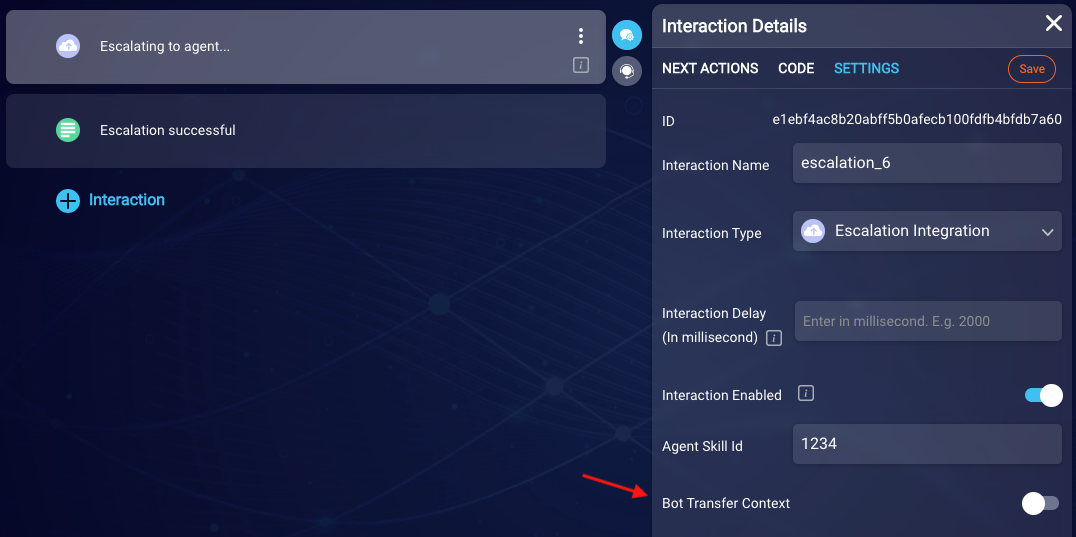
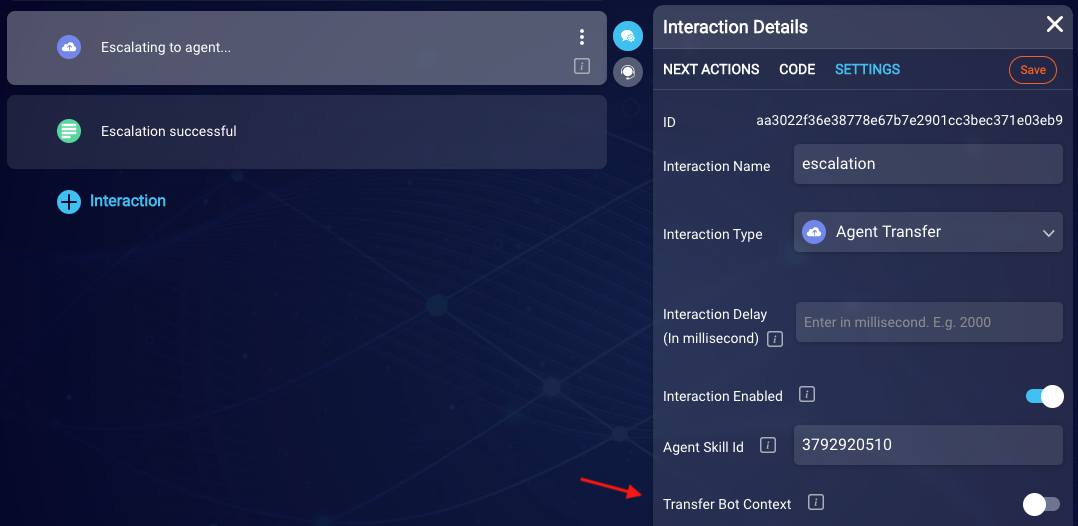
Updates due to label/copy changes

diff --git a/pages/documents/ConversationalAI/ConversationBuilder/Interactions/interactions_integrations.md b/pages/documents/ConversationalAI/ConversationBuilder/Interactions/interactions_integrations.md
@@ -42,23 +42,23 @@ We've likewise added a second condition that checks for a "failure" result **(1)
 
  <img style="width:800px" src="img/ConvoBuilder/integrations_api_failure.png">
 
-### Escalation Integration interactions
+### Agent Transfer interactions
 
-Use an Escalation Integration interaction in a dialog when you want to escalate (transfer) a conversation from a bot to a live agent or from a bot in one bot group to a bot in a *different* group.
+Use an Agent Transfer interaction in a dialog when you want to transfer a conversation from a bot to a live agent, or from a bot in one bot group to a bot in a *different* group.
 
 For some practice with this interaction type, complete the [Connect to LiveEngage tutorial](conversation-builder-tutorials-guides-getting-started.html).
 
 {: .important}
-There are two ways to implement an escalation: You can add an Escalation Integration interaction, *as discussed here*. Or, you can add an Integration interaction that uses a supporting [LivePerson Agent Escalation integration](conversation-builder-integrations-liveperson-agent-escalation-integrations.html). There is no difference between the two approaches when it comes to performance. However, use of the Escalation Integration interaction is a simpler, more convenient approach because you specify all necessary information in the interaction itself. If you use an Escalation Integration interaction, you *don't* need to create a supporting integration.
+There are two ways to implement a transfer: You can add an Agent Transfer interaction, *as discussed here*. Or, you can add an Integration interaction that uses a supporting [LivePerson Agent Escalation integration](conversation-builder-integrations-liveperson-agent-escalation-integrations.html). There is no difference between the two approaches when it comes to performance. However, use of the Agent Transfer interaction is a simpler, more convenient approach because you specify all necessary information in the interaction itself. If you use an Agent Transfer interaction, you *don't* need to create a supporting integration.
 
 {: .important}
 Implementing a bot-to-bot transfer? See [here](conversation-builder-bots-bot-to-bot-transfers.html#manual-transfers) for more information.
 
-#### Add an Escalation interaction
+#### Add an Agent Transfer interaction
 
-**To add an Escalation interaction**
+**To add an Agent Transfer interaction**
 
-1. Select the interaction just above where you want to add the escalation, and click <img style="width:30px" src="img/ConvoBuilder/icon_escalation_integr.png"> (Escalation Integration) on the interactions toolbar.
+1. Select the interaction just above where you want to add the transfer, and click <img style="width:30px" src="img/ConvoBuilder/icon_escalation_integr.png"> (Agent Transfer) on the interactions toolbar.
 2. In the interaction, enter the message to send to the user prior to being transferred, something like, “Hold on while I connect you with an agent.” You can enter either static text, use a variable, or a combination of both. This field is required, so if you don't want to send a message, enter "BLANK_MESSAGE" here. That satisfies the underlying, system requirement for a message, but it doesn't actually send one. The default value is, "Escalating to agent..."
 
     <img style="width:600px" src="img/ConvoBuilder/interactions_esc1.png">
@@ -68,9 +68,9 @@ Implementing a bot-to-bot transfer? See [here](conversation-builder-bots-bot-to-
 
     * **Agent Skill ID**: Specify the ID of the skill to which to transfer the conversation. The skill is defined in LiveEngage. Here you can specify the ID using a bot context variable like `{$botContext.skillId}`, or you can enter a direct, numeric value.
 
-        When the escalation is attempted, the Agent Skill Id is evaluated first; if it isn't numeric, the fallback message is sent to the user. If the value is numeric, but the bot doesn't respond for more than 3 minutes, an attempt is made to transfer the escalation to the fallback skill ID *if one is specified in the [agent connector](conversation-builder-testing-deployment-deploying-to-liveengage.html#add-an-agent-connector)*. Otherwise, the escalation fails. For information on handling failures, see below here.
+        When the transfer is attempted, the Agent Skill Id is evaluated first; if it isn't numeric, the fallback message is sent to the user. If the value is numeric, but the bot doesn't respond for more than 3 minutes, an attempt is made to transfer to the fallback skill ID *if one is specified in the [agent connector](conversation-builder-testing-deployment-deploying-to-liveengage.html#add-an-agent-connector)*. Otherwise, the transfer fails. For information on handling failures, see below here.
 
-    * **Bot Transfer Context**: Used for [manual, bot-to-bot transfers](conversation-builder-bots-bot-to-bot-transfers.html#manual-transfers) only. Select this to *automatically* pass the user's intent and/or message from the sender bot to the receiver bot. This lets the receiver bot know the appropriate dialog to start after the transfer.
+    * **Transfer Bot Context**: Used for [manual, bot-to-bot transfers](conversation-builder-bots-bot-to-bot-transfers.html#manual-transfers) only. Select this to *automatically* pass the user's intent and/or message from the sender bot to the receiver bot. This lets the receiver bot know the appropriate dialog to start after the transfer.
 
 4. Click **Save**.
 

diff --git a/pages/documents/ConversationalAI/ConversationBuilder/Bots/MultiBotCollaboration.md b/pages/documents/ConversationalAI/ConversationBuilder/Bots/MultiBotCollaboration.md
@@ -27,7 +27,7 @@ As an example, examine the illustration below of a Customer Service bot and a Sa
 You can transfer a conversation from one bot to another in two general ways:
 
 * Automatic transfer via bot group
-* Manual transfer via escalation
+* Manual transfer via an Agent Transfer interaction or a LP Agent Escalation integration
 
 Importantly, both approaches allow for the transfer of the user's intent and/or message, which ensures a seamless hand-off.
 
@@ -62,11 +62,16 @@ To set up automatic transfers for a group of bots, [create the bot group](conver
 
 <img class="fancyimage" style="width:1000px" src="img/ConvoBuilder/bots_collab13.png">
 
-### Manual transfers via escalation
+### Manual transfers
 
 #### What's a manual transfer?
 
-A manual, bot-to-bot transfer is an escalation where you transfer the conversation to a skill that's assigned to a *bot user agent* in specific. In this way, it's very similar to transferring a conversation to a live agent.
+A manual, bot-to-bot transfer is one where you transfer the conversation to a specific skill that's assigned to a bot user agent. (In this way, it's very similar to transferring a conversation to a live agent.)
+
+Manual transfers are done via:
+
+* An Agent Transfer interaction (simpler) 
+* A LP Agent Escalation integration (more complex)
 
 #### Why use a manual transfer?
 
@@ -77,25 +82,25 @@ You'll need to use a manual transfer in two situations:
 
 #### Making manual transfers seamless
 
-In a manual transfer, you can *automatically* pass the intent and/or user message from the sender bot to the receiver bot by selecting the **Bot Transfer Context** checkbox in the [LivePerson Agent Escalation](conversation-builder-integrations-liveperson-agent-escalation-integrations.html) integration:
+In a manual transfer, you can *automatically* pass the intent and/or user message from the sender bot to the receiver bot by selecting the **Transfer Bot Context** checkbox in the [LivePerson Agent Escalation](conversation-builder-integrations-liveperson-agent-escalation-integrations.html) integration:
    
 <img class="fancyimage" style="width:800px" src="img/ConvoBuilder/bots_collab1.png">
 
-Or, if you've used an [Escalation Integration interaction](conversation-builder-interactions-integrations.html#escalation-integration-interactions) instead, you can do this in the interaction's settings:
+Or, if you've used an [Agent Transfer interaction](conversation-builder-interactions-integrations.html#agent-transfer-interactions) instead, you can do this in the interaction's settings:
 
 <img class="fancyimage" style="width:800px" src="img/ConvoBuilder/bots_collab9.png">
 
 No coding is required.
 
-Enabling the **Bot Transfer Context** setting enables the use of a Bot Transfer Context object behind the scenes. This object contains the information about the conversation that is sent from the sender bot to the receiver bot.
+Enabling the **Transfer Bot Context** setting enables the use of a Transfer Bot Context object behind the scenes. This object contains the information about the conversation that is sent from the sender bot to the receiver bot.
 
    <img style="width:575px" src="img/ConvoBuilder/bots_collab4.png">
 
-During the transfer, the receiver bot checks for the availability of a Bot Transfer Context object. If the object is found, the bot then checks whether it contains an intent. If an intent is found, the dialog tied to that intent is triggered if available. If an intent isn't found, the bot then checks whether the object contains a user message and triggers the dialog that's matched to the message. If neither the intent nor the user message that are passed can be matched, the fallback message is sent in the receiver bot.
+During the transfer, the receiver bot checks for the availability of a Transfer Bot Context object. If the object is found, the bot then checks whether it contains an intent. If an intent is found, the dialog tied to that intent is triggered if available. If an intent isn't found, the bot then checks whether the object contains a user message and triggers the dialog that's matched to the message. If neither the intent nor the user message that are passed can be matched, the fallback message is sent in the receiver bot.
 
 #### Overwriting the intent or user message
 
-Occasionally, you might want to overwrite the intent or user message that is passed in the Bot Transfer Context object during a manual transfer. To do this, somewhere in the dialog *before* calling the escalation, use a "bot transfer" function:
+Occasionally, you might want to overwrite the intent or user message that is passed in the Transfer Bot Context object during a manual transfer. To do this, somewhere in the dialog *before* calling the escalation, use a "bot transfer" function:
 
 * To overwrite the user message, use [setBotTransferUserMessage](conversation-builder-scripting-functions-get-set-contextual-data.html#set-bot-transfer-user-message).
 * To overwrite the intent, you can use [setBotTransferIntentbyDomain](conversation-builder-scripting-functions-get-set-contextual-data.html#set-bot-transfer-intent-by-domain). The system will ascertain and pass the intent ID based on the provided domain name and intent name. Alternatively, you can use [setBotTransferIntentID](conversation-builder-scripting-functions-get-set-contextual-data.html#set-bot-transfer-intent-id).

diff --git a/pages/documents/ConversationalAI/ConversationBuilder/Integrations/integrations_LivePersonAgentEscalation.md b/pages/documents/ConversationalAI/ConversationBuilder/Integrations/integrations_LivePersonAgentEscalation.md
@@ -12,7 +12,7 @@ indicator: both
 You can use a LivePerson Agent Escalation integration when you want to transfer a conversation to either a live agent or another bot.
 
 {: .important}
-There are two ways to implement an escalation: You can add an [Escalation Integration interaction](conversation-builder-interactions-integrations.html#escalation-integration-interactions). Or, you can add an Integration interaction that uses a supporting LivePerson Agent Escalation integration, *which is discussed here*. There is no difference between the two approaches when it comes to performance. However, use of the [Escalation Integration interaction](conversation-builder-interactions-integrations.html#escalation-integration-interactions) is a simpler, more convenient approach because you specify all necessary information in the interaction itself. If you use an Escalation Integration interaction, you *don't* need to create a supporting integration.
+There are two ways to implement an escalation: You can add an [Agent Transfer interaction](conversation-builder-interactions-integrations.html#agent-transfer-interactions). Or, you can add an Integration interaction that uses a supporting LivePerson Agent Escalation integration, *which is discussed here*. There is no difference between the two approaches when it comes to performance. However, use of the [Agent Transfer interaction](conversation-builder-interactions-integrations.html#agent-transfer-interactions) is a simpler, more convenient approach because you specify all necessary information in the interaction itself. If you use an Agent Transfer interaction, you *don't* need to create a supporting integration.
 
 {: .important}
 Implementing a bot-to-bot transfer? See [here](conversation-builder-bots-bot-to-bot-transfers.html#manual-transfers) for more information.
@@ -30,7 +30,7 @@ Implementing a bot-to-bot transfer? See [here](conversation-builder-bots-bot-to-
     - **Agent Skill Id**: Specify the ID of the skill to which to transfer the conversation. The skill is defined in LiveEngage. Here you can specify the ID using a bot context variable like `{$botContext.skillId}`, or you can enter a direct, numeric value.
         
         When the escalation is attempted, the Agent Skill Id is evaluated first; if it isn't numeric, the fallback message is sent to the user. If the value is numeric, but the bot doesn't respond for more than 3 minutes, an attempt is made to transfer the escalation to the fallback skill ID *if one is specified in the [agent connector](conversation-builder-testing-deployment-deploying-to-liveengage.html#add-an-agent-connector)*. Otherwise, the escalation fails. For information on handling failures, see below [here](conversation-builder-integrations-liveperson-agent-escalation-integrations.html#handle-transfer-failures). 
-    - **Bot Transfer Context**: Used for [manual, bot-to-bot transfers](conversation-builder-bots-bot-to-bot-transfers.html#manual-transfers) only. Select this to *automatically* pass the user's intent and/or message from the sender bot to the receiver bot. This lets the receiver bot know the appropriate dialog to start after the transfer.
+    - **Transfer Bot Context**: Used for [manual, bot-to-bot transfers](conversation-builder-bots-bot-to-bot-transfers.html#manual-transfers) only. Select this to *automatically* pass the user's intent and/or message from the sender bot to the receiver bot. This lets the receiver bot know the appropriate dialog to start after the transfer.
     - **Message to User**: Use this field to guarantee that the user will see a message prior to being transferred, something like, “Hold on while I connect you with an agent.” You can enter either static text, use a variable, or a combination of both. The system will send this message as a part of the transfer API post body. This field is required, so if you don't want to send a message, enter "BLANK_MESSAGE" here. That satisfies the underlying, system requirement for a message, but it doesn't actually send one. 
     - **Transform Result Script**: If applicable, use this section to write JavaScript code that transforms the raw result (typically in JSON format), so you can use the information in the bot's dialog. For more on this, see [Transform an API result](conversation-builder-integrations-integration-basics.html#transform-an-api-result).
     - **Custom Data Fields**: Add the fields that will store the result data in key/value pairs. Users who are tasked with creating bots can use and display this data in interactions by referencing these fields as described [here](conversation-builder-interactions-interaction-basics.html#display-variables-in-interactions).

diff --git a/pages/documents/ConversationalAI/ConversationBuilder/ScriptingFunctions/getSetContextualData.md b/pages/documents/ConversationalAI/ConversationBuilder/ScriptingFunctions/getSetContextualData.md
@@ -47,7 +47,7 @@ if (count > 10) {
 
 ### Set bot transfer intent by domain
 
-Use the `setBotTransferIntentbyDomain` function to set an intent ID in the Bot Transfer Context object that can be sent from the sender bot to the receiver bot during a manual, [bot-to-bot transfer](conversation-builder-bots-bot-to-bot-transfers.html). The intent ID is derived from the supplied domain name and intent name. You can retrieve the domain name that you need from the UI. And you can retrieve the intent name that you need from the UI or via [getDialogStarterIntent](conversation-builder-scripting-functions-functions-list.html). During the transfer, the system uses the domain name and the intent name to ascertain and pass the intent ID.
+Use the `setBotTransferIntentbyDomain` function to set an intent ID in the Transfer Bot Context object that can be sent from the sender bot to the receiver bot during a manual, [bot-to-bot transfer](conversation-builder-bots-bot-to-bot-transfers.html). The intent ID is derived from the supplied domain name and intent name. You can retrieve the domain name that you need from the UI. And you can retrieve the intent name that you need from the UI or via [getDialogStarterIntent](conversation-builder-scripting-functions-functions-list.html). During the transfer, the system uses the domain name and the intent name to ascertain and pass the intent ID.
 
 | Function Name | Arguments | Returns |
 | --- | --- | --- |
@@ -61,7 +61,7 @@ botContext.setBotTransferIntentbyDomain("billing question", "Billing");
 
 ### Set bot transfer intent ID
 
-Use the `setBotTransferIntentId` function to set an intent ID in the Bot Transfer Context object that can be sent from the sender bot to the receiver bot during a manual, [bot-to-bot transfer](conversation-builder-bots-bot-to-bot-transfers.html). You can retrieve the intent ID that you need from the application URL if you're logged into Conversation Builder directly and know how. Otherwise, use [setBotTransferIntentbyDomain](conversation-builder-scripting-functions-functions-list.html) instead.
+Use the `setBotTransferIntentId` function to set an intent ID in the Transfer Bot Context object that can be sent from the sender bot to the receiver bot during a manual, [bot-to-bot transfer](conversation-builder-bots-bot-to-bot-transfers.html). You can retrieve the intent ID that you need from the application URL if you're logged into Conversation Builder directly and know how. Otherwise, use [setBotTransferIntentbyDomain](conversation-builder-scripting-functions-functions-list.html) instead.
 
 | Function Name | Arguments | Returns |
 | --- | --- | --- |
@@ -75,7 +75,7 @@ botContext.setBotTransferIntentId("d46688d7-7ec2-44a4-a09c-b500f728ee05");
 
 ### Set bot transfer user message
 
-Use the `setBotTransferUserMessage` function to set a user message in the Bot Transfer Context object that can be sent from the sender bot to the receiver bot during a manual, [bot-to-bot transfer](conversation-builder-bots-bot-to-bot-transfers.html).
+Use the `setBotTransferUserMessage` function to set a user message in the Transfer Bot Context object that can be sent from the sender bot to the receiver bot during a manual, [bot-to-bot transfer](conversation-builder-bots-bot-to-bot-transfers.html).
 
 | Function Name | Arguments | Returns |
 | --- | --- | --- |

diff --git a/pages/documents/ConversationalAI/ConversationBuilder/TutorialsAndGuides/GettingStartedTutorial.md b/pages/documents/ConversationalAI/ConversationBuilder/TutorialsAndGuides/GettingStartedTutorial.md
@@ -504,11 +504,11 @@ In this step, you set up an "escalation" to transfer the user to a human agent i
 
 5. Add the following pattern: `*(agent|representative|help|human)*`. Click **Save**.
 
-6. Add an [Escalation Integration interaction](conversation-builder-interactions-integrations.html#escalation-integration-interactions) beneath the User Says interaction.
+6. Add an [Agent Transfer interaction](conversation-builder-interactions-integrations.html#agent-transfer-interactions) beneath the User Says interaction.
 
 7. Note the default message to be sent to the user prior to escalation. Replace this with, "Hold on while I transfer you to an agent..." Alternatively, if you don't want to send a message, enter "BLANK_MESSAGE".
 
-8. Still in the Escalation Integration interaction, open the **Interaction Details**, and click the **Settings** tab.
+8. Still in the Agent Transfer interaction, open the **Interaction Details**, and click the **Settings** tab.
 
 9. In the **Agent Skill Id** field, enter the ID number of the human skill that you created; you wrote this down earlier.
 

diff --git a/pages/documents/ConversationalAI/ConversationBuilder/Dialogs/dialogs_autoEscalation.md b/pages/documents/ConversationalAI/ConversationBuilder/Dialogs/dialogs_autoEscalation.md
@@ -44,7 +44,7 @@ By default, an Auto Escalation dialog includes a Yes/No multiple choice question
 
 <img style="width:800px" src="img/ConvoBuilder/dialogs_autoEscalate3.png">
 
-If the default dialog implementation doesn't meet your requirements, build out and/or modify the dialog. For information on configuring Escalation Integration interactions, see [here](conversation-builder-interactions-integrations.html#escalation-integration-interactions).
+If the default dialog implementation doesn't meet your requirements, build out and/or modify the dialog. For information on configuring Agent Transfer interactions, see [here](conversation-builder-interactions-integrations.html#agent-transfer-interactions).
 
 When you create the dialog, you configure two important settings that you might want to change afterward:
 
